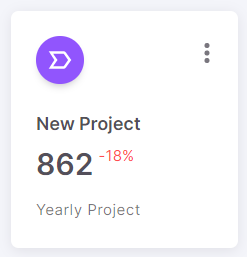
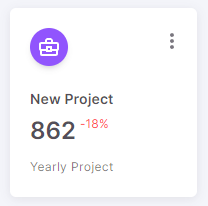
refactor(docs): refactor some doc pages
Update images that are in card stats doc page
Refactor card stats and all i18n related doc pages

diff --git a/docs/guide/components/custom/card-statistics.md b/docs/guide/components/custom/card-statistics.md
@@ -1,92 +1,112 @@
----
-sidebarDepth: 0
----
-
 # Card Statistics
 
 ## Overview
-We have create different version of card components to make it easier for you to show your statistics neatly.
 
+We have create different version of card components to make it easier for you to show your statistics neatly.
 
 ## Card Statistics Horizontal
 
 ```jsx
-// ** Icons Imports
 import AccountOutline from 'mdi-material-ui/AccountOutline'
-
-// ** Demo Components Imports
 import CardStatisticsHorizontal from 'src/@core/components/card-statistics/card-stats-horizontal'
 
-const Component = () => <CardStatisticsHorizontal stats='2,856' trend='negative' trendNumber='10.2%' title='New Customers' icon={<AccountOutline />} />
+const Component = () => (
+  <CardStatisticsHorizontal
+    stats='2,856'
+    trend='negative'
+    trendNumber='10.2%'
+    title='New Customers'
+    icon={<AccountOutline />}
+  />
+)
+
+export default Component
 ```
 
 Result:
 
 <img alt='card-stats-horizontal' class='medium-zoom' :src="$withBase('/images/components/card-stats-horizontal.png')" />
 
-## Props
+### Props
 
-| Prop        | Type                                                           | Required | Description                                     |
-| :-----------| :--------------------------------------------------------------|:---------| :-----------------------------------------------|
-| title       | `string`                                                       |  yes     | Title of the card                               |
-| color       | `primary`, `secondary`, `success`, `error`, `warning`, `info`  |  no      | Color of the avatar                             |
-| icon        | `ReactNode`                                                    |  yes     | Icon of avatar                                  |
-| stats       | `string`                                                       |  yes     | The stat number to show on card                 |
-| trend       | `positive`, `negative`                                         |  no      | To change color of the trend according to value |
-| trendNumber | `string`                                                       |  yes     | The percentage number to show above stats       |
+| Prop        | Type                                                          | Required | Description                                         |
+| :---------- | :------------------------------------------------------------ |:-------- | :-------------------------------------------------- |
+| title       | `string`                                                      | Yes      | Title of the card                                   |
+| color       | `primary`, `secondary`, `success`, `error`, `warning`, `info` | No       | Color of the icon inside the avatar                 |
+| icon        | `ReactNode`                                                   | Yes      | Icon inside the avatar                              |
+| stats       | `string`                                                      | Yes      | The statistic number on the card                    |
+| trend       | `positive`, `negative`                                        | No       | To show the change in numbers than previous numbers |
+| trendNumber | `string`                                                      | Yes      | To show the difference in numbers                   |
 
 ## Card Statistics Vertical
 
 ```jsx
-// ** Icons Imports
-import LabelVariantOutline from 'mdi-material-ui/LabelVariantOutline'
-
-// ** Demo Components Imports
+import BriefcaseVariantOutline from 'mdi-material-ui/BriefcaseVariantOutline'
 import CardStatisticsVertical from 'src/@core/components/card-statistics/card-stats-vertical'
 
-const Component = () => <CardStatisticsVertical stats='862' trend='negative' trendNumber='-18%' title='New Project' subtitle='Yearly Project'  icon={<LabelVariantOutline />} />
+const Component = () => (
+  <CardStatisticsVertical
+    stats='862'
+    trend='negative'
+    trendNumber='-18%'
+    title='New Project'
+    subtitle='Yearly Project'
+    icon={<BriefcaseVariantOutline />}
+    optionsMenuProps={{ options: ['Refresh', 'Share', 'Update'] }}
+  />
+)
+
+export default Component
 ```
 
 Result:
 
 <img alt='card-stats-vertical' class='medium-zoom' :src="$withBase('/images/components/card-stats-vertical.png')" />
+<img alt='card-stats-vertical' class='medium-zoom' :src="$withBase('/images/components/card-stats-vertical-2.png')" />
 
-## Props
+### Props
 
-| Prop        | Type                                                           | Required | Description                                     |
-| :-----------| :--------------------------------------------------------------|:---------| :-----------------------------------------------|
-| title       | `string`                                                       |  yes     | Title of the card                               |
-| subtitle    | `string`                                                       |  yes     | Subtitle of the card                            |
-| color       | `primary`, `secondary`, `success`, `error`, `warning`, `info`  |  no      | Color of the avatar                             |
-| icon        | `ReactNode`                                                    |  yes     | Icon of avatar                                  |
-| stats       | `string`                                                       |  yes     | The stat number to show on card                 |
-| trend       | `positive`, `negative`                                         |  no      | To change color of the trend according to value |
-| trendNumber | `string`                                                       |  yes     | The percentage number to show above stats       |
+| Prop             | Type                                                                 | Required | Description                                         |
+| :--------------- | :------------------------------------------------------------------- |:-------- | :-------------------------------------------------- |
+| title            | `string`                                                             | Yes      | Title of the card                                   |
+| subtitle         | `string`                                                             | Yes      | Subtitle of the card                                |
+| color            | `primary`, `secondary`, `success`, `error`, `warning`, `info`        | No       | Color of the avatar                                 |
+| icon             | `ReactNode`                                                          | Yes      | Icon inside the avatar                              |
+| stats            | `string`                                                             | Yes      | The statistic number on the card                    |
+| trend            | `positive`, `negative`                                               | No       | To show the change in numbers than previous numbers |
+| trendNumber      | `string`                                                             | Yes      | To show the difference in numbers                   |
+| optionsMenuProps | [`OptionsMenuType`](/guide/components/custom/option-menu.html#props) | No       | Options to render in the more options menu          |
 
 ## Card Statistics Image
 
 ```jsx
-// ** Icons Imports
-import LabelVariantOutline from 'mdi-material-ui/LabelVariantOutline'
-
-// ** Demo Components Imports
 import CardStatisticsImg from 'src/@core/components/card-statistics/card-stats-with-image'
 
-const Component = () => <CardStatisticsImg stats='13.7k' title='Ratings' trendNumber='+38%' chipText='Year of 2021' src='/images/cards/pose_f9.png' />
+const Component = () => (
+  <CardStatisticsImg
+    src='...'
+    stats='13.7k'
+    title='Ratings'
+    trendNumber='+38%'
+    chipText={`Year of ${new Date().getFullYear()}`}
+  />
+)
+
+export default Component
 ```
 
 Result:
 
 <img alt='card-stats-img' class='medium-zoom' :src="$withBase('/images/components/card-stats-img.png')" />
 
-## Props
+### Props
 
-| Prop        | Type                                                           | Required | Description                                     |
-| :-----------| :--------------------------------------------------------------|:---------| :-----------------------------------------------|
-| title       | `string`                                                       |  yes     | Title of the card                               |
-| chipText    | `string`                                                       |  yes     | Label of the chip                               |
-| chipColor   | `primary`, `secondary`, `success`, `error`, `warning`, `info`  |  no      | Color of the chip                               |
-| src         | `string`                                                       |  yes     | Path of the img                                 |
-| stats       | `string`                                                       |  yes     | The stat number to show on card                 |
-| trend       | `positive`, `negative`                                         |  no      | To change color of the trend according to value |
-| trendNumber | `string`                                                       |  yes     | The percentage number to show above stats       |
+| Prop        | Type                                                          | Required | Description                                         |
+| :---------- | :------------------------------------------------------------ |:-------- | :-------------------------------------------------- |
+| title       | `string`                                                      | Yes      | Title of the card                                   |
+| chipText    | `string`                                                      | Yes      | Label of the chip                                   |
+| chipColor   | `primary`, `secondary`, `success`, `error`, `warning`, `info` | No       | Color of the chip                                   |
+| src         | `string`                                                      | Yes      | Path of the image                                   |
+| stats       | `string`                                                      | Yes      | The statistic number on the card                    |
+| trend       | `positive`, `negative`                                        | No       | To show the change in numbers than previous numbers |
+| trendNumber | `string`                                                      | Yes      | To show the difference in numbers                   |

diff --git a/docs/articles/how-to-add-mui-localization.md b/docs/articles/how-to-add-mui-localization.md
@@ -1,43 +1,75 @@
 # How to add MUI localization
 
 ::: warning
-To use MUI localization you'll have to make changes in `ThemeComponent.tsx` file.
+To use MUI localization you'll have to make changes in the `ThemeComponent.tsx` file.
 
-You'll have to make a copy of `ThemeComponent.tsx` file to keep it as backup while updating the template.
+You'll have to make a copy of the `ThemeComponent.tsx` file to keep it as a backup while updating the template.
 :::
 
 ## Localization Synced With I18n
 
-1. open `src/@core/theme/ThemeComponent.tsx`.
-2. import the locales you need from `'@mui/material/locale'`.
-```js
-import { frFR, arSD, enUS } from '@mui/material/locale'
+1. Open the `src/@core/theme/ThemeComponent.tsx` file
+2. Import the locales you need from `'@mui/material/locale'`
+
+<code-group>
+<code-block title="TS" active>
+```tsx
+import { arEG, enUS, frFR, Localization } from '@mui/material/locale'
 ```
-3. import `useTranslation` hook from `react-i18next`.
-```js
+</code-block>
+
+<code-block title="JS">
+```jsx
+import { arEG, enUS, frFR } from '@mui/material/locale'
+```
+</code-block>
+</code-group>
+
+3. Import the `useTranslation` hook from `react-i18next`
+
+```jsx
 import { useTranslation } from 'react-i18next'
 ```
-4. Create a `langObj` variable.
-```js
-const langObj = {
+
+4. Create a `langObj` variable
+
+<code-group>
+<code-block title="TS" active>
+```tsx
+const langObj: { [key: string]: Localization } = {
   fr: frFR,
-  ar: arSD,
+  ar: arEG,
   en: enUS
 }
 ```
-5. Initialize `useTranslation` hook.
-```js
-// ** Hook
+</code-block>
+
+<code-block title="JS">
+```jsx
+const langObj = {
+  fr: frFR,
+  ar: arEG,
+  en: enUS
+}
+```
+</code-block>
+</code-group>
+
+5. Initialize the `useTranslation` hook
+
+```jsx
 const { i18n } = useTranslation()
 ```
-6. Add the language as second parameter to createTheme function.
-```js
+
+6. Add the language as a parameter to the `createTheme` function
+
+```jsx
 theme = createTheme(
-    theme,
-    {
-        components: { ...mergeComponentOverrides(theme, settings) },
-        typography: { ...mergeTypography(theme) }
-    },
-    langObj[i18n.language]
-)
+  theme,
+  {
+    components: { ...mergeComponentOverrides(theme, settings) },
+    typography: { ...mergeTypography(theme) }
+  },
+  langObj[i18n.language]
+  )
 ```

diff --git a/docs/articles/how-to-use-i18n-in-a-page.md b/docs/articles/how-to-use-i18n-in-a-page.md
@@ -1,14 +1,12 @@
 # How to use i18n in a page
 
-Master admin provides i18n for the navigation only.
-There might be a time when you might want to translate a text in page.
-Here's how you can achieve that:
+Master admin provides i18n for navigation only. There might be a time when you might want to translate any text in a page. Here's how you can achieve that:
 
-1. Make sure your have `react-i18next` `i18next-http-backend` `i18next-browser-languagedetector` installed.
-2. Copy `src/configs/i18n.ts` file from the full version and paste it under the same directory in your project
-3. Add import 'src/configs/i18n' import statement in src/pages/_app.tsx file
-4. Create a `locales` folder in public folder.
-5. Create json files with language as their file-names in `locales` depending on the languages you need. For the example we're using three languages english, french & arabic.
+1. Make sure your have `i18next`, `react-i18next`, `i18next-http-backend` and `i18next-browser-languagedetector` packages installed
+2. Copy the `src/configs/i18n.ts` file from the full version and paste it under the same directory in your project
+3. Add `import 'src/configs/i18n'` import statement in the `src/pages/_app.tsx` file
+4. Create a `locales` folder in the `public` folder
+5. Create JSON files with language as their file names in `locales` depending on the languages you need. For example, we're using three languages English, French & Arabic
 
 ```json
 // en.json
@@ -16,12 +14,14 @@ Here's how you can achieve that:
   "Hello World": "Hello World"
 }
 ```
+
 ```json
 // fr.json
 {
   "Hello World": "Bonjour le monde"
 }
 ```
+
 ```json
 // ar.json
 {
@@ -29,19 +29,18 @@ Here's how you can achieve that:
 }
 ```
 
-6. Import `useTranslation` in the page where you want to translate the content.
+6. Import `useTranslation` in the page where you want to translate the content
 
 ```tsx
 import { useTranslation } from 'react-i18next'
 ```
 
-7. You can now initialize the `useTranslation` and use the `changeLanguage` function to change the language.
+7. You can now initialize the `useTranslation` and use the `changeLanguage` function to change the language
 
 ```tsx
 import { useTranslation } from 'react-i18next'
 
 const Component = () => {
-  // ** Hook
   const { t, i18n } = useTranslation()
 
   return (

diff --git a/docs/articles/how-to-add-i18n-routing.md b/docs/articles/how-to-add-i18n-routing.md
@@ -2,7 +2,7 @@
 
 ## Routing Synced With I18n
 
-1. Open `next.config.js` and add `i18` property with the languages you need.
+1. Open the `next.config.js` file and add the `i18` property with the languages you need
 
 ```js
 i18n: {
@@ -11,9 +11,10 @@ i18n: {
 },
 ```
 
-2. import locale from `useRouter` hook and add `locale` prop to every next link used in your app.
+2. Import locale from the `useRouter` hook and add the `locale` prop to every NextJS link that is used in your app
 
 ```jsx
+import Link from 'next/link'
 import { useRouter } from 'next/router'
 
 const Component = () => {
@@ -26,13 +27,16 @@ const Component = () => {
 export default Component
 ```
 
-3. Create a `useEffect` in file where you switch your language that watches changes i18n language to preserve language in case user reloads the page
+3. Create a `useEffect` in the file where you switch your language that watches changes of i18n language to preserve language in case the user reloads the page
 
 ```jsx
+import { useEffect } from 'react'
 import { useRouter } from 'next/router'
+import { useTranslation } from 'react-i18next'
 
 const Component = () => {
   const router = useRouter()
+  const { i18n } = useTranslation()
   const { locale } = router
 
   useEffect(() => {
@@ -45,10 +49,9 @@ const Component = () => {
 }
 
 export default Component
-
 ```
 
-4. To switch langauage, push the `locale` parameter with `router.push`
+4. To switch language, push the `locale` parameter with `router.push`
 
 ```jsx
 import { useRouter } from 'next/router'
@@ -65,12 +68,11 @@ const Component = () => {
     }
   }, [locale])
 
-    
   const handleLangChange = (lang) => {
     i18n.changeLanguage(lang)
     router.push(router.asPath, undefined, { locale: lang })
   }
-  
+
   return (
     <div>
       <button onClick={() => handleLangChange('en')}>EN</button>
